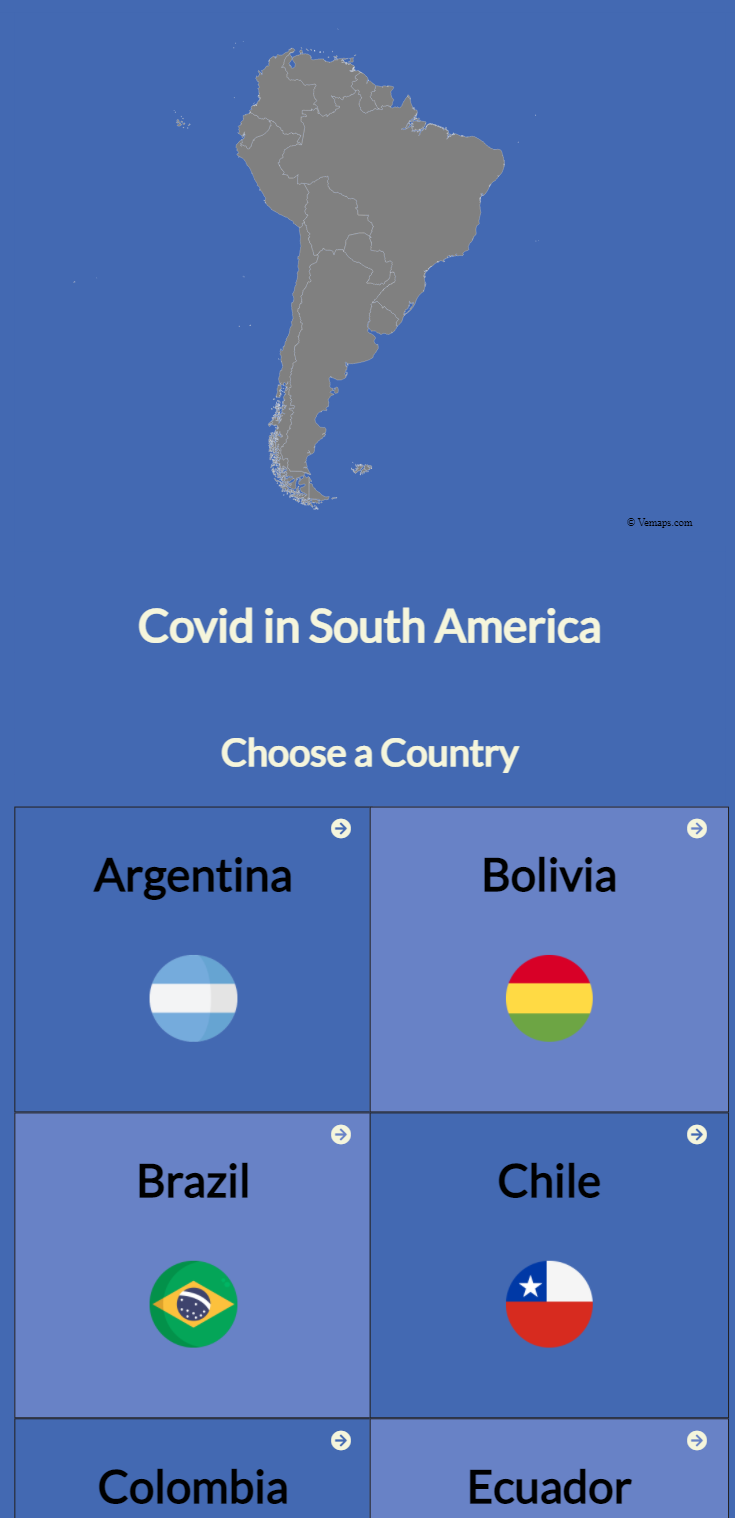
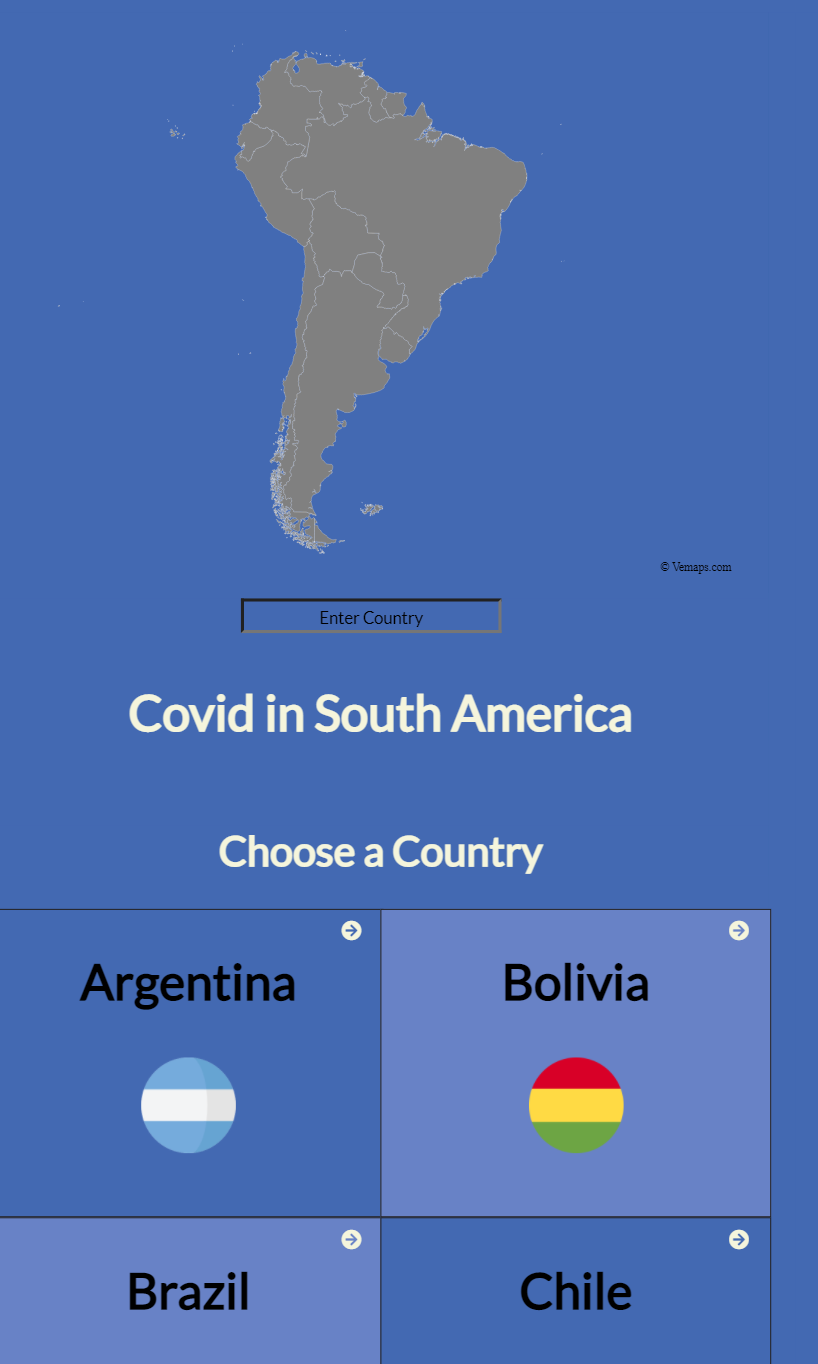
implement requested changes

diff --git a/src/components/Home/Home.js b/src/components/Home/Home.js
@@ -1,11 +1,8 @@
-/* eslint-disable jsx-a11y/control-has-associated-label */
-/* eslint-disable import/no-dynamic-require */
-/* eslint-disable global-require */
 import React, { useEffect } from 'react';
 import { useSelector, useDispatch } from 'react-redux';
 import { Link } from 'react-router-dom';
 import { getCountries } from '../../redux/Home/thunk/Apicall';
-import { GetOne } from '../../redux/Home/actions/Actions';
+import { GetOne, filterCountries } from '../../redux/Home/actions/Actions';
 import Header from '../Header/Header';
 
 const Home = () => {
@@ -16,19 +13,28 @@ const Home = () => {
   }, []);
 
   const allCountries = useSelector((state) => state.countriesReducer);
-
+  const filterAllCountries = (e) => {
+    if (e.target.value === '') {
+      dispatch(getCountries());
+    } else { dispatch(filterCountries(e.target.value)); }
+  };
   return (
     <section className="main">
       <Header />
+      <input className="search" type="text" onKeyUp={filterAllCountries} placeholder="Enter Country" />
       <h1 className="main-heading">Covid in South America</h1>
       <h2 className="picker">Choose a Country</h2>
       <section className="container list-wraper">
         {allCountries.map((element) => (
           <div key={element.All.iso} className="lists">
-            {' '}
             <h2 className="title-country">{element.All.country}</h2>
-            <img className="pics-home" src={require(`../../assets/${element.All.country}-flag.png`)} alt="map" />
-            <button className="btn" type="button" onClick={() => dispatch(GetOne(element.All.iso))}><Link className="link" to="/countries"><i className="fas fa-arrow-circle-right icon" /></Link></button>
+            <img className="pics-home" src={require(`../../assets/${element.All.country}-flag.png`)} alt="map" />{/* eslint-disable-line */}
+            <button className="btn" type="button" onClick={() => dispatch(GetOne(element.All.iso))}>
+              <Link className="link" state={element.All.country} to={`countries/${element.All.country}`}>
+                {' '}
+                <i className="fas fa-arrow-circle-right icon" />
+              </Link>
+            </button>
 
           </div>
         ))}

diff --git a/src/components/Home/Home.test.js b/src/components/Home/Home.test.js
@@ -5,6 +5,8 @@ import { Provider } from 'react-redux';
 import store from '../../redux/store';
 import Home from './Home';
 import Countries from '../Countries/Countries';
+import { GetOne, filterCountries } from '../../redux/Home/actions/Actions';
+import Header from '../Header/Header';
 
 describe('Check page rendering', () => {
   it('Render Home', () => {
@@ -26,5 +28,26 @@ describe('Check page rendering', () => {
       </BrowserRouter>,
     );
     screen.debug();
+  });
+  it('Render Header', () => {
+    render(
+
+      <Header />,
+
+    );
+    screen.debug();
+  });
+});
+describe('Test actions', () => {
+  it('should fetch one country', () => {
+    const country = 'Argentina';
+    const action = GetOne(country);
+    expect(action).toEqual({ type: 'FETCH_ONE', payload: 'Argentina' });
+  });
+
+  it('should filter countries', () => {
+    const input = 'Ar';
+    const action = filterCountries(input);
+    expect(action).toEqual({ type: 'FILTER_COUNTRIES', payload: 'Ar' });
   });
 });

diff --git a/src/components/Countries/Countries.js b/src/components/Countries/Countries.js
@@ -1,5 +1,3 @@
-/* eslint-disable import/no-dynamic-require */
-/* eslint-disable global-require */
 import React from 'react';
 import { useSelector } from 'react-redux';
 import { Link } from 'react-router-dom';
@@ -11,7 +9,9 @@ const Countries = () => {
 
       {allCountries.map((element) => (
         <div className="countries-div" key={element.All.iso}>
-          <img className="pics" src={require(`../../assets/${element.All.country}.png`)} alt="map" />
+
+          <img className="pics" src={require(`../../assets/${element.All.country}.png`)} alt="map" />   {/* eslint-disable-line */}
+
           <h4>{element.All.country}</h4>
           <p>
             Capital City :
@@ -46,4 +46,5 @@ const Countries = () => {
     </section>
   );
 };
+
 export default Countries;

diff --git a/src/redux/Home/reducer/Reducer.js b/src/redux/Home/reducer/Reducer.js
@@ -1,4 +1,4 @@
-import { FETCH_COUNTRIES, FETCH_ONE } from '../actions/Actions';
+import { FETCH_COUNTRIES, FETCH_ONE, FILTER_COUNTRIES } from '../actions/Actions';
 
 const initialState = [];
 let oneCountry = [];
@@ -10,6 +10,13 @@ const countriesReducer = (state = initialState, action) => {
     case FETCH_ONE:
       oneCountry = state.filter((elem) => elem.All.iso === action.payload);
       return oneCountry;
+    case FILTER_COUNTRIES:
+    { const newState = state.filter((elem) => {
+      const regex = new RegExp(action.payload, 'gi');
+      return elem.All.country.match(regex);
+    });
+    return newState;
+    }
     default:
       return state;
   }

diff --git a/src/App.js b/src/App.js
@@ -1,16 +1,17 @@
 import './App.css';
-import { Routes, Route } from 'react-router-dom';
+import { Routes, Route, useLocation } from 'react-router-dom';
 import Home from './components/Home/Home';
 import Countries from './components/Countries/Countries';
 
 function App() {
+  const location = useLocation();
   return (
     <section className="container wrapper">
 
       <Routes>
         <Route exact path="/" element={<Home />} />
 
-        <Route path="/countries" element={<Countries />} />
+        <Route path="/countries/:country" country={location.state} element={<Countries />} />
 
       </Routes>
     </section>

diff --git a/src/redux/Home/actions/Actions.js b/src/redux/Home/actions/Actions.js
@@ -1,7 +1,14 @@
 export const FETCH_COUNTRIES = 'FETCH_COUNTRIES';
 export const FETCH_ONE = 'FETCH_ONE';
+export const FILTER_COUNTRIES = 'FILTER_COUNTRIES';
 
 export const GetOne = (payload) => ({
-  type: 'FETCH_ONE',
+  type: FETCH_ONE,
   payload,
+});
+
+export const filterCountries = (payload) => ({
+  type: FILTER_COUNTRIES,
+  payload,
+
 });

diff --git a/src/App.css b/src/App.css
@@ -210,3 +210,17 @@
   flex-direction: column;
   align-items: center;
 }
+
+::placeholder {
+  color: black;
+  font-size: 2vw;
+  text-align: center;
+  margin-top: 20px;
+}
+
+.search {
+  height: 3vw;
+  width: 30vw;
+  position: relative;
+  left: 30vw;
+}

diff --git a/README.md b/README.md
@@ -19,7 +19,7 @@ This project is about building a mobile web application to check a list of metri
 
 ## Live Demo
 
-[Live Demo Link](https://react-redux-capstone-sj1978.herokuapp.com//)
+[Live Demo Link](https://react-redux-capstone-sj1978.herokuapp.com)
 
 ## Presentation
 
